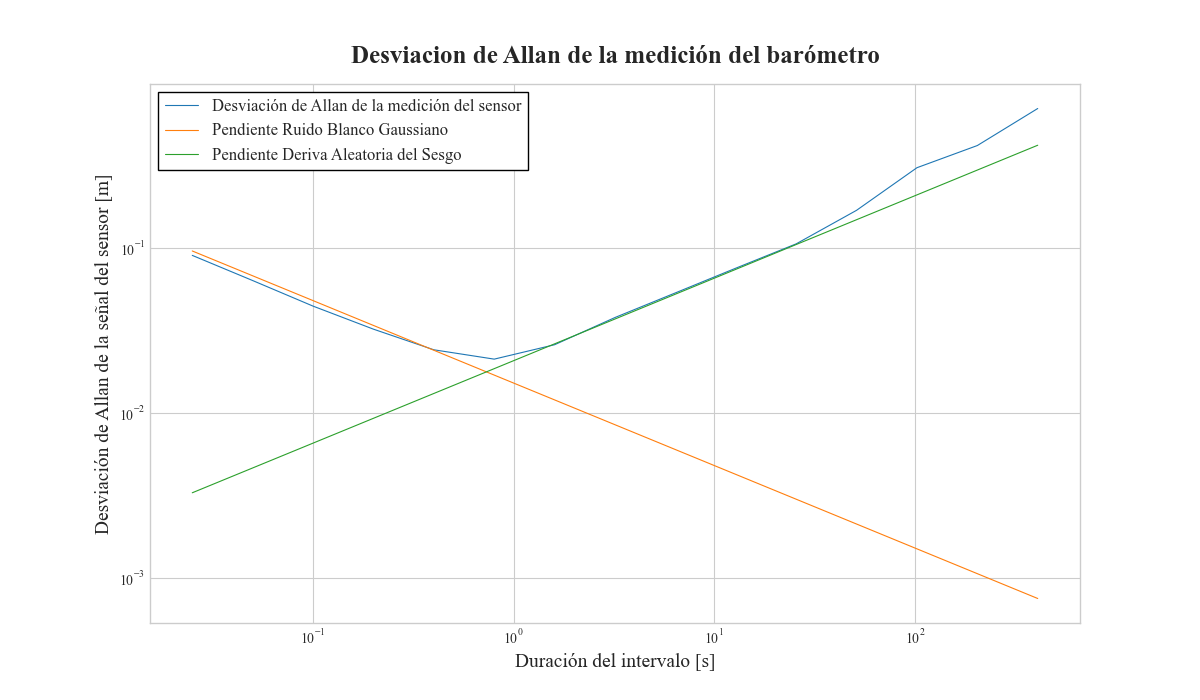
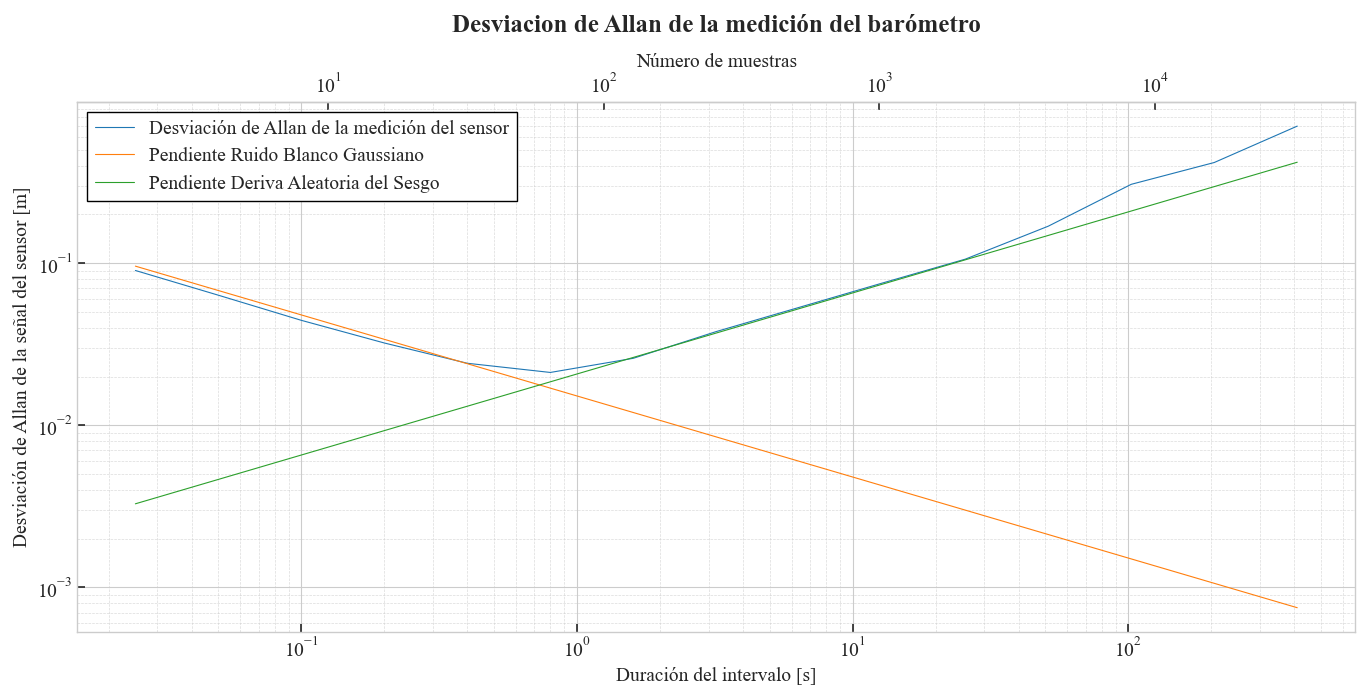
Better images

diff --git a/BarometricAltimeterCalibrationModules/utils.py b/BarometricAltimeterCalibrationModules/utils.py
@@ -182,39 +182,61 @@ def extract_barometric_altimeter_data(
 def show_loglog_data(
     x_data: np.ndarray,
     y_data: np.ndarray, 
+    fs: Union[int,float],
     legend: str,
     xlabel: str,
     ylabel: str,
     title: str,
+    spanish: bool=False
 ) -> None:
     """
     Show data plot in double logaritmic axes.
 
     Args:
-        x_data: X data plot.
-        y_data: Y data plot.
+        x_data: Data array of shape (N,M) where N is number of samples and M the numer of curves.
+        y_data: Data array of shape (N,M) where N is number of samples and M the numer of curves.
+        fs: Sampling rate in Hz.
         legend: Data legend.
         xlabel: X axis label.
         ylabel: Y axis label.
         title: Figure title.
+        spanish: Spanish comments.
 
     Returns:
         None
     """
 
     # Visualization
-    _, ax1 = plt.subplots(figsize=(12, 7))
+    _, ax1 = plt.subplots(figsize=(14, 7))
+
+    def tau_to_samples(tau):
+        return tau * fs
+
+    def samples_to_tau(N):
+        return N / fs
+
     lines = ax1.loglog(x_data, y_data, linewidth=0.8)
     for line, label in zip(lines, legend):
         line.set_label(label)
-    ax1.grid(True)
+    ax1.grid(True, which='major', linestyle='-', linewidth=0.8)
+    ax1.grid(True, which='minor', linestyle='--', linewidth=0.5, alpha=0.7)
     ax1.set_xlabel(xlabel, fontsize=14)
     ax1.set_ylabel(ylabel, fontsize=14)
     ax1.set_title(title, fontsize=18, fontweight='bold', pad=15)
+    secax = ax1.secondary_xaxis(
+        'top',
+        functions=(tau_to_samples, samples_to_tau)
+    )
+
+    if spanish:
+        secax_label = "Número de muestras"
+    else:
+        secax_label = "Number of Samples"
+    secax.set_xlabel(secax_label, fontsize=14)
     handles, _ = ax1.get_legend_handles_labels()
     ax1.legend(
         handles=handles,
-        fontsize=12,
+        fontsize=14,
         loc="best",
         frameon=True,        
         fancybox=False,     
@@ -222,7 +244,23 @@ def show_loglog_data(
         edgecolor='black',  
         facecolor='white'   
     )
-
+    secax.tick_params(
+        axis='x',
+        which='major',
+        direction='in',
+        length=6,
+        width=1.2,
+        labelsize=14
+    )
+    ax1.tick_params(
+        axis='both',
+        which='major',
+        direction='in',
+        length=6,
+        width=1.2,
+        labelsize=14
+    )
+    plt.tight_layout()
     plt.show()
 
 def show_time_data(
@@ -253,7 +291,7 @@ def show_time_data(
     time_vector = np.arange(0, n_samples, 1) / fs
 
     _, ax1 = plt.subplots(figsize=(12, 7))
-    lines = ax1.plot(time_vector, data, linewidth=0.8)
+    lines = ax1.plot(time_vector, data, linewidth=1)
     for line, label in zip(lines, legend):
         line.set_label(label)
     ax1.grid(True)
@@ -271,6 +309,14 @@ def show_time_data(
         framealpha=1.0,      
         edgecolor='black',  
         facecolor='white'   
+    )
+    ax1.tick_params(
+        axis='both',
+        which='major',
+        direction='in',
+        length=6,
+        width=1.2,
+        labelsize=14
     )
 
     plt.show()

diff --git a/BarometricAltimeterCalibrationModules/bar_altimeter_calibration.py b/BarometricAltimeterCalibrationModules/bar_altimeter_calibration.py
@@ -221,16 +221,44 @@ def auto_estimate_R_q_from_allan(
         q, tau_rw = np.nan, None
 
     if plot:
+        curves = [sigma]
+        legends = []
+
         if spanish:
-            plot_legend = ["Desviación de Allan de la medición del sensor","Pendiente Ruido Blanco Gaussiano","Pendiente Deriva Aleatoria del Sesgo"]
-            plot_xlabel = "Duración del intervalo [s]"
-            plot_ylabel = f"Desviación de Allan de la señal del sensor [{u}]"
-        else:   
-            plot_legend = ["Sensor measurement Allan Dev.","White-Gaussian Noise slope","Random-Walk bias slope"]
-            plot_xlabel = "Interval Length [s]"
-            plot_ylabel = f"Sensor signal Allan deviation [{u}]"
-        utils.show_loglog_data(tau, np.vstack([sigma,np.sqrt(R/fs)/np.sqrt(tau),np.sqrt(q/3)*np.sqrt(tau)]).T, 
-                               legend=plot_legend, xlabel=plot_xlabel, ylabel=plot_ylabel, title=title)
+            legends.append("Desviación de Allan de la medición del sensor")
+            xlabel = "Duración del intervalo [s]"
+            ylabel = f"Desviación de Allan de la señal del sensor [{u}]"
+        else:
+            legends.append("Sensor measurement Allan Dev.")
+            xlabel = "Interval Length [s]"
+            ylabel = f"Sensor signal Allan deviation [{u}]"
+
+        # White noise
+        if not np.isnan(R):
+            curves.append(np.sqrt(R/fs)/np.sqrt(tau))
+            if spanish:
+                legends.append("Pendiente Ruido Blanco Gaussiano")
+            else:
+                legends.append("White-Gaussian Noise slope")
+
+        # Random walk
+        if not np.isnan(q):
+            curves.append(np.sqrt(q/3)*np.sqrt(tau))
+            if spanish:
+                legends.append("Pendiente Deriva Aleatoria del Sesgo")
+            else:
+                legends.append("Random-Walk bias slope")
+
+        utils.show_loglog_data(
+            tau,
+            np.vstack(curves).T,
+            fs=fs,
+            legend=legends,
+            xlabel=xlabel,
+            ylabel=ylabel,
+            title=title,
+            spanish=spanish
+        )
 
     return R, q, tau_white, tau_rw
 

diff --git a/CalibrationTests/test_signal_characterization.py b/CalibrationTests/test_signal_characterization.py
@@ -9,7 +9,7 @@ import numpy as np
 import BarometricAltimeterCalibrationModules.bar_altimeter_calibration as bar
 from BarometricAltimeterCalibrationModules.utils import extract_barometric_altimeter_data, show_time_data
 
-spanish = False
+spanish = True
 
 # Use synthetic data
 synthetic = False
@@ -64,5 +64,5 @@ sim_data = bar.simulate_sensor_data(n_samples, sampling_freq, R, q, temp)
 if spanish:
     show_time_data(np.vstack([rel_alt, sim_data]).T, sampling_freq, legend=["Señal medida", "Señal simulada"], xlabel="Tiempo [s]", ylabel="[m]", title="Comparación de señales - Barómetro")
 else:
-    show_time_data(np.vstack([rel_alt, sim_data]).T, sampling_freq, ["Logged Signal", "Simulated Signal"], ylabel="[m]", title="Signal comparison - Barometer")
+    show_time_data(np.vstack([rel_alt, sim_data]).T, sampling_freq, legend=["Logged Signal", "Simulated Signal"], xlabel ="Time [s]", ylabel="[m]", title="Signal comparison - Barometer")
 
